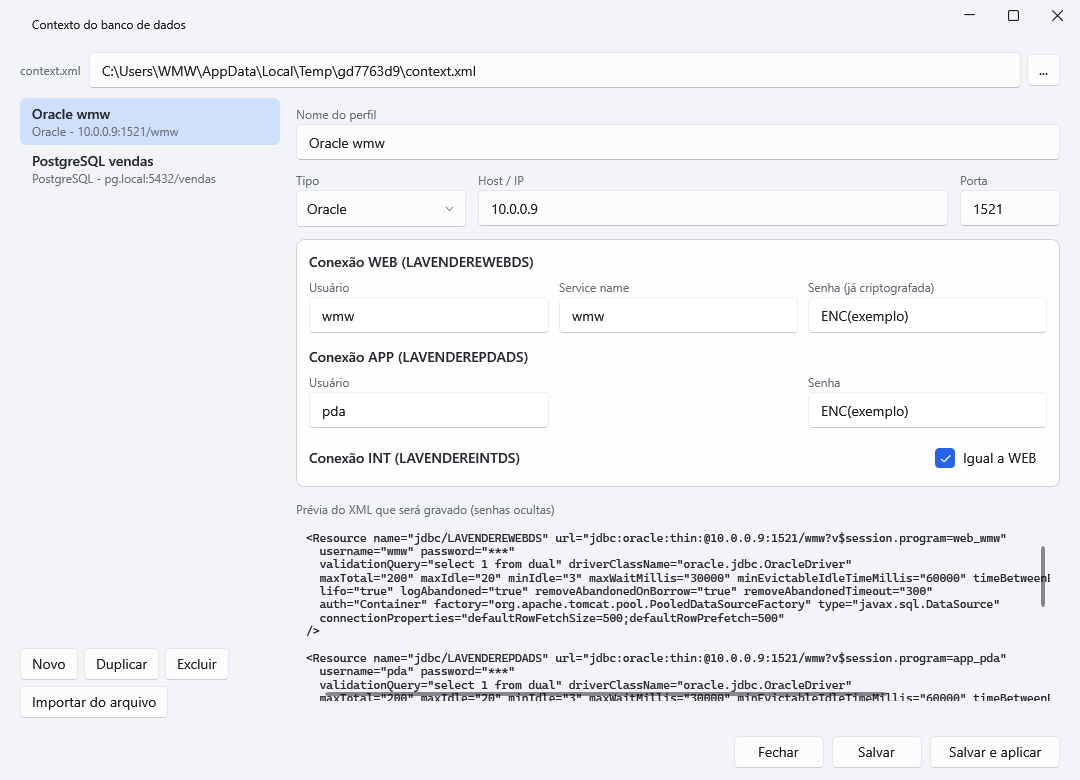
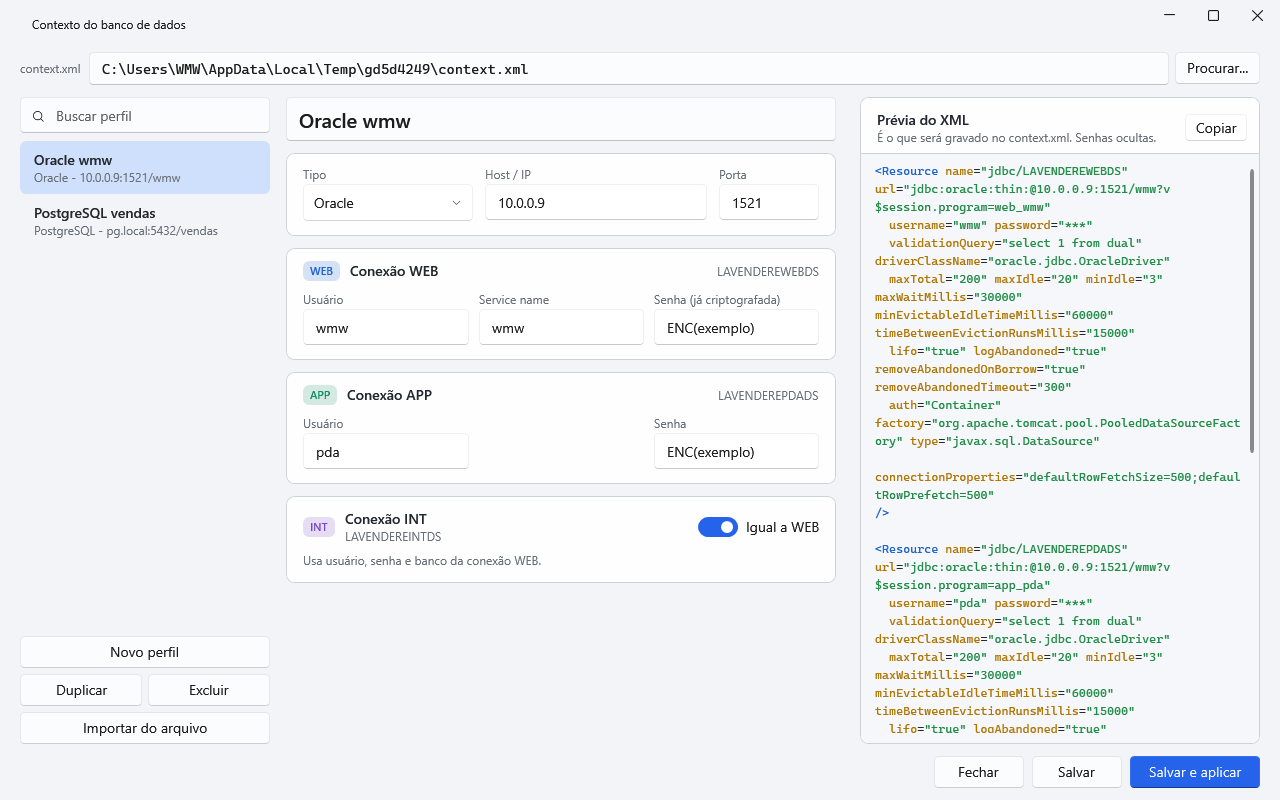
Redesenha a janela Contexto do banco de dados como o prototipo A
Lista de perfis com busca, cartoes WEB/APP/INT com etiquetas e chave
"Igual a WEB", e previa do XML em coluna propria de altura total, com
cores do tema, quebra de linha e botao Copiar. Aviso "Alteracoes nao
salvas" no rodape. Novo controle XmlDestacado. Capturas da galeria
atualizadas.

diff --git a/src/Menage.App/Modulos/Banco/JanelaDoBanco.xaml b/src/Menage.App/Modulos/Banco/JanelaDoBanco.xaml
@@ -1,82 +1,122 @@
 <c:JanelaBase x:Class="Menage.App.Modulos.Banco.JanelaDoBanco"
               xmlns="http://schemas.microsoft.com/winfx/2006/xaml/presentation"
               xmlns:x="http://schemas.microsoft.com/winfx/2006/xaml"
+              xmlns:ui="http://schemas.lepo.co/wpfui/2022/xaml"
               xmlns:c="clr-namespace:Menage.App.Controles"
-              Title="Contexto do banco de dados" Width="1080" Height="780" MinWidth="900" MinHeight="620" WindowStartupLocation="CenterOwner">
+              Title="Contexto do banco de dados" Width="1280" Height="800" MinWidth="1000" MinHeight="640" WindowStartupLocation="CenterOwner">
   <c:JanelaBase.Resources>
     <Style x:Key="Rotulo" TargetType="TextBlock" BasedOn="{StaticResource Texto.Legenda}">
-      <Setter Property="Margin" Value="0,8,0,2"/>
+      <Setter Property="Margin" Value="0,0,0,2"/>
+    </Style>
+    <Style x:Key="CartaoDeConexao" TargetType="Border" BasedOn="{StaticResource Cartao.Padrao}">
+      <Setter Property="Padding" Value="16,12,16,14"/>
+      <Setter Property="Margin" Value="0,12,0,0"/>
     </Style>
   </c:JanelaBase.Resources>
   <Grid Margin="20,4,20,12">
     <Grid.RowDefinitions><RowDefinition Height="Auto"/><RowDefinition Height="*"/><RowDefinition Height="Auto"/></Grid.RowDefinitions>
 
-    <DockPanel Margin="0,0,0,10">
+    <DockPanel Margin="0,0,0,12">
       <TextBlock Text="context.xml" Style="{StaticResource Texto.Legenda}" VerticalAlignment="Center" Margin="0,0,8,0"/>
-      <Button DockPanel.Dock="Right" Content="..." Margin="6,0,0,0" Click="AoProcurar" ToolTip="Escolher o context.xml"/>
-      <TextBox Text="{Binding Caminho, UpdateSourceTrigger=PropertyChanged}"/>
+      <Button DockPanel.Dock="Right" Content="Procurar..." Margin="6,0,0,0" Click="AoProcurar" ToolTip="Escolher o context.xml"/>
+      <TextBox Text="{Binding Caminho, UpdateSourceTrigger=PropertyChanged}" FontFamily="{StaticResource Fonte.Mono}"/>
     </DockPanel>
 
     <Grid Grid.Row="1">
-      <Grid.ColumnDefinitions><ColumnDefinition Width="260"/><ColumnDefinition Width="16"/><ColumnDefinition Width="*"/></Grid.ColumnDefinitions>
+      <Grid.ColumnDefinitions>
+        <ColumnDefinition Width="250"/><ColumnDefinition Width="16"/>
+        <ColumnDefinition Width="*" MinWidth="380"/><ColumnDefinition Width="16"/>
+        <ColumnDefinition Width="400" MinWidth="280"/>
+      </Grid.ColumnDefinitions>
 
+      <!-- Perfis -->
       <DockPanel>
-        <WrapPanel DockPanel.Dock="Bottom" Margin="0,8,0,0">
-          <Button Content="Novo" Command="{Binding NovoCommand}" Margin="0,0,6,6"/>
-          <Button Content="Duplicar" Command="{Binding DuplicarCommand}" Margin="0,0,6,6" IsEnabled="{Binding TemSelecao}"/>
-          <Button Content="Excluir" Command="{Binding ExcluirCommand}" Margin="0,0,6,6" IsEnabled="{Binding TemSelecao}"/>
-          <Button Content="Importar do arquivo" Click="AoImportar" Margin="0,0,0,6"/>
-        </WrapPanel>
-        <ListBox ItemsSource="{Binding Perfis}" SelectedItem="{Binding Selecionado}" Style="{StaticResource Lista.Virtualizada}">
+        <c:CampoDeBusca DockPanel.Dock="Top" PlaceholderText="Buscar perfil" Text="{Binding Busca, UpdateSourceTrigger=PropertyChanged}" Margin="0,0,0,8"/>
+        <StackPanel DockPanel.Dock="Bottom" Margin="0,8,0,0">
+          <Button Content="Novo perfil" Command="{Binding NovoCommand}" HorizontalAlignment="Stretch" Margin="0,0,0,6"/>
+          <UniformGrid Columns="2">
+            <Button Content="Duplicar" Command="{Binding DuplicarCommand}" IsEnabled="{Binding TemSelecao}" HorizontalAlignment="Stretch" Margin="0,0,3,6"/>
+            <Button Content="Excluir" Command="{Binding ExcluirCommand}" IsEnabled="{Binding TemSelecao}" HorizontalAlignment="Stretch" Margin="3,0,0,6"/>
+          </UniformGrid>
+          <Button Content="Importar do arquivo" Click="AoImportar" HorizontalAlignment="Stretch"/>
+        </StackPanel>
+        <ListBox ItemsSource="{Binding PerfisFiltrados}" SelectedItem="{Binding Selecionado}" Style="{StaticResource Lista.Virtualizada}">
           <ListBox.ItemTemplate>
             <DataTemplate>
-              <StackPanel Margin="4,3">
-                <TextBlock Text="{Binding Nome}" FontWeight="SemiBold"/>
-                <TextBlock Text="{Binding Resumo}" Style="{StaticResource Texto.Legenda}"/>
+              <StackPanel Margin="6,6">
+                <TextBlock Text="{Binding Nome}" FontWeight="SemiBold" TextTrimming="CharacterEllipsis"/>
+                <TextBlock Text="{Binding Resumo}" Style="{StaticResource Texto.Legenda}" TextTrimming="CharacterEllipsis"/>
               </StackPanel>
             </DataTemplate>
           </ListBox.ItemTemplate>
         </ListBox>
       </DockPanel>
 
+      <!-- Formulário -->
       <ScrollViewer Grid.Column="2" VerticalScrollBarVisibility="Auto">
-        <StackPanel>
-          <TextBlock Text="Nome do perfil" Style="{StaticResource Rotulo}"/>
-          <TextBox Text="{Binding Nome, UpdateSourceTrigger=PropertyChanged}"/>
+        <StackPanel Margin="0,0,8,0">
+          <TextBox Text="{Binding Nome, UpdateSourceTrigger=PropertyChanged}" FontSize="{StaticResource Fonte.Titulo}" FontWeight="SemiBold" Margin="0,0,0,4"/>
 
-          <Grid Margin="0,4,0,0">
-            <Grid.ColumnDefinitions><ColumnDefinition Width="170"/><ColumnDefinition Width="12"/><ColumnDefinition Width="*"/><ColumnDefinition Width="12"/><ColumnDefinition Width="100"/></Grid.ColumnDefinitions>
-            <StackPanel><TextBlock Text="Tipo" Style="{StaticResource Rotulo}"/>
-              <ComboBox ItemsSource="{Binding Tipos}" DisplayMemberPath="Nome" SelectedValuePath="Id" SelectedValue="{Binding Tipo}"/></StackPanel>
-            <StackPanel Grid.Column="2"><TextBlock Text="Host / IP" Style="{StaticResource Rotulo}"/>
-              <TextBox Text="{Binding Host, UpdateSourceTrigger=PropertyChanged}"/></StackPanel>
-            <StackPanel Grid.Column="4"><TextBlock Text="Porta" Style="{StaticResource Rotulo}"/>
-              <TextBox Text="{Binding Porta, UpdateSourceTrigger=PropertyChanged}"/></StackPanel>
-          </Grid>
+          <Border Style="{StaticResource Cartao.Padrao}" Padding="16,12,16,14" Margin="0,8,0,0">
+            <Grid>
+              <Grid.ColumnDefinitions><ColumnDefinition Width="170"/><ColumnDefinition Width="12"/><ColumnDefinition Width="*"/><ColumnDefinition Width="12"/><ColumnDefinition Width="100"/></Grid.ColumnDefinitions>
+              <StackPanel><TextBlock Text="Tipo" Style="{StaticResource Rotulo}"/>
+                <ComboBox ItemsSource="{Binding Tipos}" DisplayMemberPath="Nome" SelectedValuePath="Id" SelectedValue="{Binding Tipo}"/></StackPanel>
+              <StackPanel Grid.Column="2"><TextBlock Text="Host / IP" Style="{StaticResource Rotulo}"/>
+                <TextBox Text="{Binding Host, UpdateSourceTrigger=PropertyChanged}"/></StackPanel>
+              <StackPanel Grid.Column="4"><TextBlock Text="Porta" Style="{StaticResource Rotulo}"/>
+                <TextBox Text="{Binding Porta, UpdateSourceTrigger=PropertyChanged}"/></StackPanel>
+            </Grid>
+          </Border>
 
-          <Border Style="{StaticResource Cartao.Padrao}" Padding="12,4,12,12" Margin="0,12,0,0">
+          <!-- WEB -->
+          <Border Style="{StaticResource CartaoDeConexao}">
             <StackPanel>
-              <TextBlock Text="Conexão WEB (LAVENDEREWEBDS)" FontWeight="SemiBold" Margin="0,8,0,0"/>
+              <DockPanel Margin="0,0,0,10">
+                <c:Etiqueta Texto="WEB" Tom="GrupoWeb" DockPanel.Dock="Left" Margin="0,0,10,0"/>
+                <TextBlock Text="Conexão WEB" FontWeight="SemiBold" VerticalAlignment="Center"/>
+                <TextBlock Text="LAVENDEREWEBDS" Style="{StaticResource Texto.Legenda}" HorizontalAlignment="Right" VerticalAlignment="Center"/>
+              </DockPanel>
               <Grid>
                 <Grid.ColumnDefinitions><ColumnDefinition Width="*"/><ColumnDefinition Width="10"/><ColumnDefinition Width="*"/><ColumnDefinition Width="10"/><ColumnDefinition Width="*"/></Grid.ColumnDefinitions>
                 <StackPanel><TextBlock Text="Usuário" Style="{StaticResource Rotulo}"/><TextBox Text="{Binding WebUsuario, UpdateSourceTrigger=PropertyChanged}"/></StackPanel>
                 <StackPanel Grid.Column="2"><TextBlock Text="{Binding RotuloDoBanco}" Style="{StaticResource Rotulo}"/><TextBox Text="{Binding WebBanco, UpdateSourceTrigger=PropertyChanged}"/></StackPanel>
                 <StackPanel Grid.Column="4"><TextBlock Text="Senha (já criptografada)" Style="{StaticResource Rotulo}"/><TextBox Text="{Binding WebSenha, UpdateSourceTrigger=PropertyChanged}"/></StackPanel>
               </Grid>
+            </StackPanel>
+          </Border>
 
-              <TextBlock Text="Conexão APP (LAVENDEREPDADS)" FontWeight="SemiBold" Margin="0,14,0,0"/>
+          <!-- APP -->
+          <Border Style="{StaticResource CartaoDeConexao}">
+            <StackPanel>
+              <DockPanel Margin="0,0,0,10">
+                <c:Etiqueta Texto="APP" Tom="GrupoApp" DockPanel.Dock="Left" Margin="0,0,10,0"/>
+                <TextBlock Text="Conexão APP" FontWeight="SemiBold" VerticalAlignment="Center"/>
+                <TextBlock Text="LAVENDEREPDADS" Style="{StaticResource Texto.Legenda}" HorizontalAlignment="Right" VerticalAlignment="Center"/>
+              </DockPanel>
               <Grid>
                 <Grid.ColumnDefinitions><ColumnDefinition Width="*"/><ColumnDefinition Width="10"/><ColumnDefinition Width="*"/><ColumnDefinition Width="10"/><ColumnDefinition Width="*"/></Grid.ColumnDefinitions>
                 <StackPanel><TextBlock Text="Usuário" Style="{StaticResource Rotulo}"/><TextBox Text="{Binding AppUsuario, UpdateSourceTrigger=PropertyChanged}"/></StackPanel>
                 <StackPanel Grid.Column="2" Visibility="{Binding EhOracle, Converter={x:Static c:Conversores.OcultoSe}}"><TextBlock Text="{Binding RotuloDoBanco}" Style="{StaticResource Rotulo}"/><TextBox Text="{Binding AppBanco, UpdateSourceTrigger=PropertyChanged}"/></StackPanel>
                 <StackPanel Grid.Column="4"><TextBlock Text="Senha" Style="{StaticResource Rotulo}"/><TextBox Text="{Binding AppSenha, UpdateSourceTrigger=PropertyChanged}"/></StackPanel>
               </Grid>
+            </StackPanel>
+          </Border>
 
-              <DockPanel Margin="0,14,0,0">
-                <TextBlock Text="Conexão INT (LAVENDEREINTDS)" FontWeight="SemiBold" VerticalAlignment="Center"/>
-                <CheckBox Content="Igual a WEB" IsChecked="{Binding IntIgualWeb}" HorizontalAlignment="Right" DockPanel.Dock="Right"/>
+          <!-- INT -->
+          <Border Style="{StaticResource CartaoDeConexao}">
+            <StackPanel>
+              <DockPanel>
+                <c:Etiqueta Texto="INT" Tom="GrupoFw" DockPanel.Dock="Left" Margin="0,0,10,0"/>
+                <ui:ToggleSwitch IsChecked="{Binding IntIgualWeb}" Content="Igual a WEB" DockPanel.Dock="Right" HorizontalAlignment="Right" VerticalAlignment="Center"/>
+                <StackPanel VerticalAlignment="Center">
+                  <TextBlock Text="Conexão INT" FontWeight="SemiBold"/>
+                  <TextBlock Text="LAVENDEREINTDS" Style="{StaticResource Texto.Legenda}"/>
+                </StackPanel>
               </DockPanel>
-              <Grid Visibility="{Binding MostrarInt, Converter={x:Static c:Conversores.VisivelSe}}">
+              <TextBlock Text="Usa usuário, senha e banco da conexão WEB." Style="{StaticResource Texto.Legenda}" Margin="0,8,0,0"
+                         Visibility="{Binding IntIgualWeb, Converter={x:Static c:Conversores.VisivelSe}}"/>
+              <Grid Margin="0,10,0,0" Visibility="{Binding MostrarInt, Converter={x:Static c:Conversores.VisivelSe}}">
                 <Grid.ColumnDefinitions><ColumnDefinition Width="*"/><ColumnDefinition Width="10"/><ColumnDefinition Width="*"/><ColumnDefinition Width="10"/><ColumnDefinition Width="*"/></Grid.ColumnDefinitions>
                 <StackPanel><TextBlock Text="Usuário" Style="{StaticResource Rotulo}"/><TextBox Text="{Binding IntUsuario, UpdateSourceTrigger=PropertyChanged}"/></StackPanel>
                 <StackPanel Grid.Column="2" Visibility="{Binding EhOracle, Converter={x:Static c:Conversores.OcultoSe}}"><TextBlock Text="{Binding RotuloDoBanco}" Style="{StaticResource Rotulo}"/><TextBox Text="{Binding IntBanco, UpdateSourceTrigger=PropertyChanged}"/></StackPanel>
@@ -84,28 +124,48 @@
               </Grid>
             </StackPanel>
           </Border>
-
-          <TextBlock Text="Prévia do XML que será gravado (senhas ocultas)" Style="{StaticResource Rotulo}" Margin="0,14,0,4"/>
-          <Border Background="{DynamicResource Tema.ConsoleFundo}" CornerRadius="6" Padding="10" MaxHeight="190">
-            <ScrollViewer VerticalScrollBarVisibility="Auto" HorizontalScrollBarVisibility="Auto">
-              <TextBlock Text="{Binding Previa}" FontFamily="{StaticResource Fonte.Mono}" FontSize="11.5" Foreground="{DynamicResource Tema.Texto}"/>
-            </ScrollViewer>
-          </Border>
         </StackPanel>
       </ScrollViewer>
+
+      <!-- Prévia do XML: coluna própria, em altura total, para revisar o que será gravado -->
+      <Border Grid.Column="4" Style="{StaticResource Cartao.Padrao}" Padding="0">
+        <DockPanel>
+          <DockPanel DockPanel.Dock="Top" Margin="16,12,12,8">
+            <Button Content="Copiar" DockPanel.Dock="Right" Click="AoCopiarPrevia" Padding="10,3"/>
+            <StackPanel>
+              <TextBlock Text="Prévia do XML" FontWeight="SemiBold"/>
+              <TextBlock Text="É o que será gravado no context.xml. Senhas ocultas." Style="{StaticResource Texto.Legenda}"/>
+            </StackPanel>
+          </DockPanel>
+          <Border Background="{DynamicResource Tema.Cartao2}" BorderBrush="{DynamicResource Tema.Borda}" BorderThickness="0,1,0,0" CornerRadius="0,0,8,8">
+            <ScrollViewer VerticalScrollBarVisibility="Auto" HorizontalScrollBarVisibility="Disabled" Padding="14,10">
+              <c:XmlDestacado Xml="{Binding Previa}" FontFamily="{StaticResource Fonte.Mono}" FontSize="12" LineHeight="18" TextWrapping="Wrap"
+                              Foreground="{DynamicResource Tema.Texto}"/>
+            </ScrollViewer>
+          </Border>
+        </DockPanel>
+      </Border>
     </Grid>
 
     <DockPanel Grid.Row="2" Margin="0,12,0,0">
       <StackPanel DockPanel.Dock="Right" Orientation="Horizontal">
         <Button Content="Fechar" IsCancel="True" MinWidth="90" Margin="0,0,8,0"/>
         <Button Content="Salvar" Command="{Binding SalvarCommand}" MinWidth="90" Margin="0,0,8,0"/>
-        <Button Content="Salvar e aplicar" Command="{Binding SalvarEAplicarCommand}" MinWidth="130" IsDefault="True"/>
+        <ui:Button Content="Salvar e aplicar" Command="{Binding SalvarEAplicarCommand}" MinWidth="130" IsDefault="True" Appearance="Primary"/>
       </StackPanel>
-      <TextBlock Text="{Binding Mensagem}" TextWrapping="Wrap" VerticalAlignment="Center" Margin="0,0,16,0">
+      <TextBlock VerticalAlignment="Center" Margin="0,0,16,0" TextWrapping="Wrap">
         <TextBlock.Style>
           <Style TargetType="TextBlock">
+            <Setter Property="Text" Value="{Binding Mensagem}"/>
             <Setter Property="Foreground" Value="{DynamicResource Tema.Verde}"/>
-            <Style.Triggers><DataTrigger Binding="{Binding Erro}" Value="True"><Setter Property="Foreground" Value="{DynamicResource Tema.Vermelho}"/></DataTrigger></Style.Triggers>
+            <Style.Triggers>
+              <DataTrigger Binding="{Binding Erro}" Value="True"><Setter Property="Foreground" Value="{DynamicResource Tema.Vermelho}"/></DataTrigger>
+              <MultiDataTrigger>
+                <MultiDataTrigger.Conditions><Condition Binding="{Binding Sujo}" Value="True"/><Condition Binding="{Binding Erro}" Value="False"/></MultiDataTrigger.Conditions>
+                <Setter Property="Text" Value="Alterações não salvas"/>
+                <Setter Property="Foreground" Value="{DynamicResource Tema.Amarelo}"/>
+              </MultiDataTrigger>
+            </Style.Triggers>
           </Style>
         </TextBlock.Style>
       </TextBlock>

diff --git a/src/Menage.App/Modulos/Banco/BancoViewModel.cs b/src/Menage.App/Modulos/Banco/BancoViewModel.cs
@@ -1,5 +1,7 @@
 using System.Collections.ObjectModel;
+using System.ComponentModel;
 using System.Text.RegularExpressions;
+using System.Windows.Data;
 using CommunityToolkit.Mvvm.ComponentModel;
 using CommunityToolkit.Mvvm.Input;
 using Menage.Core.Banco;
@@ -52,16 +54,26 @@ public sealed partial class BancoViewModel : ObservableObject
     [ObservableProperty] string _intBanco = "";
     [ObservableProperty] string _intSenha = "";
     [ObservableProperty] bool _intIgualWeb = true;
+    [ObservableProperty] string _busca = "";
+    [ObservableProperty] bool _sujo;
 
     public BancoViewModel(RepositorioDeBanco repositorio, ServicoDeBancoContexto servico)
     {
         (_repositorio, _servico) = (repositorio, servico);
         _caminho = repositorio.Caminho;
+        PerfisFiltrados = CollectionViewSource.GetDefaultView(Perfis);
+        PerfisFiltrados.Filter = o => o is PerfilDeBanco p && (Busca.Length == 0
+            || p.Nome.Contains(Busca, StringComparison.CurrentCultureIgnoreCase) || p.Resumo.Contains(Busca, StringComparison.CurrentCultureIgnoreCase));
         foreach (var p in repositorio.Perfis) Perfis.Add(p);
         Selecionado = repositorio.PorId(repositorio.Configuracao.Selecionado) ?? Perfis.FirstOrDefault();
     }
 
     public ObservableCollection<PerfilDeBanco> Perfis { get; } = [];
+
+    /// <summary>Os mesmos perfis, filtrados pela caixa de busca.</summary>
+    public ICollectionView PerfisFiltrados { get; }
+
+    partial void OnBuscaChanged(string value) => PerfisFiltrados.Refresh();
 
     public IReadOnlyList<OpcaoDeTipo> Tipos { get; } = [.. TipoDeBanco.Todos.Select(t => new OpcaoDeTipo(t, TipoDeBanco.Nome(t)))];
 
@@ -120,6 +132,7 @@ public sealed partial class BancoViewModel : ObservableObject
         (AppUsuario, AppBanco, AppSenha) = (value.App.Usuario, value.App.Banco, value.App.Senha);
         (IntUsuario, IntBanco, IntSenha, IntIgualWeb) = (value.Integracao.Usuario, value.Integracao.Banco, value.Integracao.Senha, value.IntIgualWeb);
         _carregando = false;
+        Sujo = false;
         AtualizarPrevia();
     }
 
@@ -135,9 +148,13 @@ public sealed partial class BancoViewModel : ObservableObject
     protected override void OnPropertyChanged(System.ComponentModel.PropertyChangedEventArgs e)
     {
         base.OnPropertyChanged(e);
-        if (!_carregando && e.PropertyName is nameof(Tipo) or nameof(Host) or nameof(Porta) or nameof(WebUsuario) or nameof(WebBanco)
+        if (!_carregando && e.PropertyName is nameof(Nome) or nameof(Tipo) or nameof(Host) or nameof(Porta) or nameof(WebUsuario) or nameof(WebBanco)
             or nameof(WebSenha) or nameof(AppUsuario) or nameof(AppBanco) or nameof(AppSenha) or nameof(IntUsuario) or nameof(IntBanco)
-            or nameof(IntSenha) or nameof(IntIgualWeb)) AtualizarPrevia();
+            or nameof(IntSenha) or nameof(IntIgualWeb))
+        {
+            Sujo = true;
+            AtualizarPrevia();
+        }
     }
 
     void AtualizarPrevia()
@@ -156,6 +173,7 @@ public sealed partial class BancoViewModel : ObservableObject
         (WebUsuario, WebBanco, WebSenha, AppUsuario, AppBanco, AppSenha, IntUsuario, IntBanco, IntSenha, IntIgualWeb) = ("", "", "", "", "", "", "", "", "", true);
         _carregando = false;
         OnPropertyChanged(nameof(TemSelecao));
+        Sujo = false;
         AtualizarPrevia();
         Avisar("Preencha os campos e clique em Salvar.", false);
     }
@@ -194,6 +212,7 @@ public sealed partial class BancoViewModel : ObservableObject
         if (!salvo.EhOk) { Avisar(salvo.Erro.ToString(), true); return; }
         _repositorio.Escolher(perfil.Id);
         Recarregar(perfil.Id);
+        Sujo = false;
         if (!aplicar) { Avisar($"Perfil \"{perfil.Nome}\" salvo.", false); return; }
 
         var r = ArquivoDeContexto.Aplicar(_repositorio.Caminho, perfil, _repositorio.Perfis);

diff --git a/src/Menage.App/Controles/XmlDestacado.cs b/src/Menage.App/Controles/XmlDestacado.cs
@@ -1,0 +1,38 @@
+using System.Text.RegularExpressions;
+using System.Windows;
+using System.Windows.Controls;
+using System.Windows.Documents;
+
+namespace Menage.App.Controles;
+
+/// <summary>Mostra um trecho de XML com tags, atributos e valores em cores do tema (acompanha a troca de tema).</summary>
+public sealed partial class XmlDestacado : TextBlock
+{
+    public static readonly DependencyProperty XmlProperty = DependencyProperty.Register(
+        nameof(Xml), typeof(string), typeof(XmlDestacado), new PropertyMetadata("", (d, e) => ((XmlDestacado)d).Montar((string)e.NewValue)));
+
+    [GeneratedRegex("""(?<tag></?[A-Za-z][\w:]*|/?>)|(?<attr>[A-Za-z][\w:.-]*)(?==)|(?<val>"[^"]*")""", RegexOptions.CultureInvariant)]
+    private static partial Regex Padrao();
+
+    public string Xml
+    {
+        get => (string)GetValue(XmlProperty);
+        set => SetValue(XmlProperty, value);
+    }
+
+    void Montar(string texto)
+    {
+        Inlines.Clear();
+        var fim = 0;
+        foreach (Match m in Padrao().Matches(texto))
+        {
+            if (m.Index > fim) Inlines.Add(new Run(texto[fim..m.Index]));
+            var tom = m.Groups["tag"].Success ? "Tema.Azul" : m.Groups["attr"].Success ? "Tema.Amarelo" : "Tema.Verde";
+            var run = new Run(m.Value);
+            run.SetResourceReference(TextElement.ForegroundProperty, tom);
+            Inlines.Add(run);
+            fim = m.Index + m.Length;
+        }
+        if (fim < texto.Length) Inlines.Add(new Run(texto[fim..]));
+    }
+}

diff --git a/src/Menage.App/Modulos/Banco/JanelaDoBanco.xaml.cs b/src/Menage.App/Modulos/Banco/JanelaDoBanco.xaml.cs
@@ -27,6 +27,13 @@ public partial class JanelaDoBanco : JanelaBase
         if (dialogo.ShowDialog(this) == true) _vm.Caminho = dialogo.FileName;
     }
 
+    void AoCopiarPrevia(object sender, RoutedEventArgs e)
+    {
+        if (_vm.Previa.Length == 0) return;
+        Clipboard.SetText(_vm.Previa);
+        Avisar("Prévia copiada", "O XML (com senhas ocultas) está na área de transferência.");
+    }
+
     async void AoImportar(object sender, RoutedEventArgs e)
     {
         var itens = _vm.LerDoArquivo();
